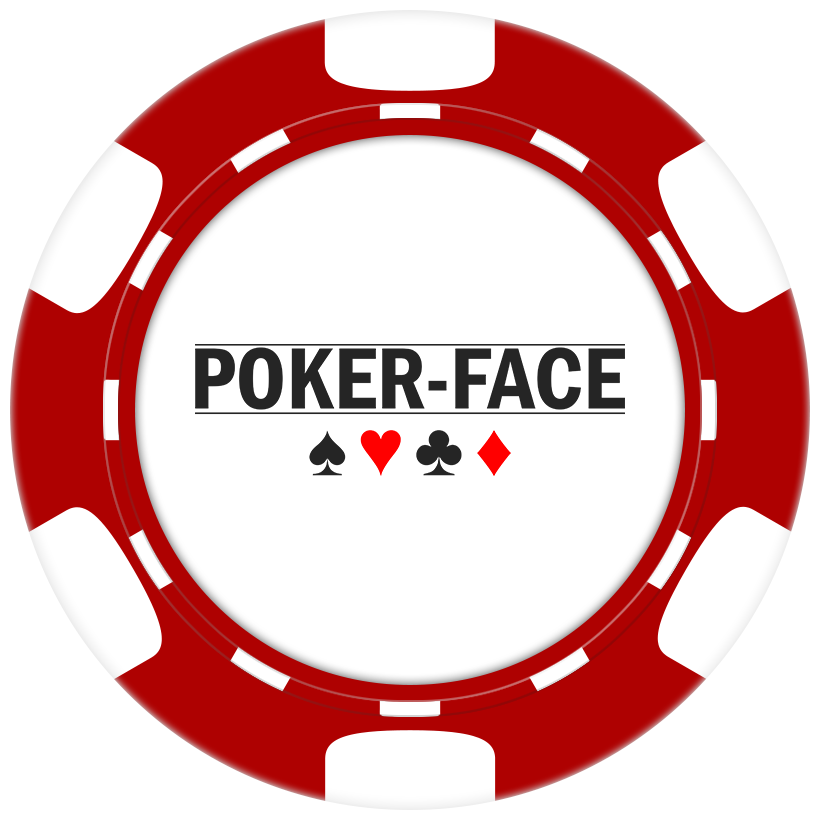
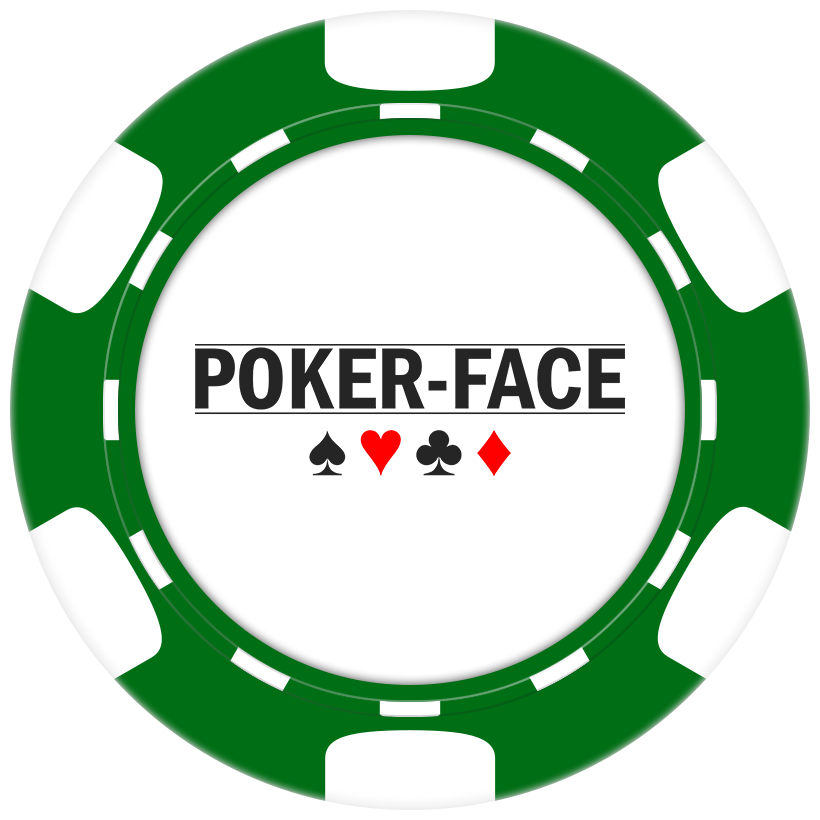
- Font of statistics fixed - Top bar panel fixed when game to main menu - Player turn spending added to PlayerComponent - Appicon is green - handranking.png

Changed region(s): [[0.0, 0.0, 1.0, 0.9756]]

diff --git a/PokerFace/PokerFace/src/ch/hearc/pokerface/gui/gamescreen/player/PlayerComponent.java b/PokerFace/PokerFace/src/ch/hearc/pokerface/gui/gamescreen/player/PlayerComponent.java
@@ -7,10 +7,8 @@ import java.awt.FontFormatException;
 import java.io.File;
 import java.io.IOException;
 
-import javax.imageio.ImageIO;
 import javax.swing.BorderFactory;
 import javax.swing.Box;
-import javax.swing.ImageIcon;
 import javax.swing.JLabel;
 import javax.swing.JPanel;
 import javax.swing.SwingConstants;
@@ -18,6 +16,8 @@ import javax.swing.SwingConstants;
 import ch.hearc.pokerface.gameengine.player.Player;
 import ch.hearc.pokerface.gui.gamescreen.card.CardComponent;
 import ch.hearc.pokerface.gui.gamescreen.card.PlayerCard;
+import ch.hearc.pokerface.gui.tools.ButtonTools;
+import ch.hearc.pokerface.gui.tools.ImageShop;
 
 public class PlayerComponent extends JPanel
 {
@@ -34,16 +34,11 @@ public class PlayerComponent extends JPanel
 	//IO
 	private JLabel				name;
 	private JLabel				money;
+	private JLabel				turnSpend;
 
 	private CardComponent		card1;
 	private CardComponent		card2;
 	private Token				role;
-
-	/*------------------------------*\
-	|*			  Static			*|
-	\*------------------------------*/
-
-	public static final String	FONT	= "resources/Franklin Gothic Demi Cond.ttf";
 
 	/*------------------------------------------------------------------*\
 	|*							Constructeurs							*|
@@ -54,15 +49,9 @@ public class PlayerComponent extends JPanel
 		this.player = player;
 		//money = new JLabel(Integer.toString(player.getBankroll()));
 
-		try
-		{
-			money = new JLabel("$" + Integer.toString(player.getBankroll()), new ImageIcon(ImageIO.read(new File("resources/coin.png"))), SwingConstants.CENTER);
-			name = new JLabel(player.getProfile().getName(), player.getProfile().getAvatar().getIcon(), SwingConstants.CENTER);
-		}
-		catch (IOException e)
-		{
-			e.printStackTrace();
-		}
+		money = new JLabel("$" + Integer.toString(player.getBankroll()), ImageShop.ICON_COIN, SwingConstants.CENTER);
+		turnSpend = new JLabel("" + player.getTurnSpending());
+		name = new JLabel(player.getProfile().getName(), player.getProfile().getAvatar().getIcon(), SwingConstants.CENTER);
 
 		money.setHorizontalTextPosition(SwingConstants.LEFT);
 		name.setHorizontalTextPosition(SwingConstants.LEFT);
@@ -129,16 +118,15 @@ public class PlayerComponent extends JPanel
 
 		role.setToken(player.getRole().toString());
 		money.setText("$" + Integer.toString(player.getBankroll()));
+		turnSpend.setText("$" + player.getTurnSpending());
+		//getParent().update(getParent().getGraphics());
+		turnSpend.repaint();
 		getParent().repaint();
 	}
 
 	/*------------------------------*\
 	|*				Set				*|
 	\*------------------------------*/
-	/*public void setIsHumanPlayer(boolean b)
-	{
-		isHumanPlayer = b;
-	}*/
 
 	public void setAllinShow(boolean b)
 	{
@@ -160,7 +148,13 @@ public class PlayerComponent extends JPanel
 	{
 		Box box = Box.createVerticalBox();
 		box.add(name);
-		box.add(money);
+
+		Box moneyAndBetSpendBox = Box.createHorizontalBox();
+		moneyAndBetSpendBox.add(turnSpend);
+		moneyAndBetSpendBox.add(Box.createHorizontalGlue());
+		moneyAndBetSpendBox.add(money);
+
+		box.add(moneyAndBetSpendBox);
 		Box cardsBox = Box.createHorizontalBox();
 		cardsBox.add(card1);
 		cardsBox.add(card2);
@@ -182,7 +176,7 @@ public class PlayerComponent extends JPanel
 		Font font = name.getFont();
 		try
 		{
-			font = Font.createFont(Font.TRUETYPE_FONT, new File(FONT));
+			font = Font.createFont(Font.TRUETYPE_FONT, new File(ButtonTools.BUTTON_FONT_NAME));
 		}
 		catch (FontFormatException | IOException e)
 		{
@@ -193,9 +187,11 @@ public class PlayerComponent extends JPanel
 
 		name.setFont(font);
 		money.setFont(font);
+		turnSpend.setFont(font);
 
 		name.setForeground(Color.WHITE);
 		money.setForeground(new Color(255, 215, 0));
+		turnSpend.setForeground(new Color(39, 181, 73));
 	}
 
 }

diff --git a/PokerFace/PokerFace/src/ch/hearc/pokerface/gui/gamescreen/table/JPanelGameControl.java b/PokerFace/PokerFace/src/ch/hearc/pokerface/gui/gamescreen/table/JPanelGameControl.java
@@ -1,6 +1,7 @@
 
 package ch.hearc.pokerface.gui.gamescreen.table;
 
+import java.awt.BorderLayout;
 import java.awt.Color;
 import java.awt.Dimension;
 import java.awt.GridLayout;
@@ -16,6 +17,7 @@ import javax.swing.Box;
 import javax.swing.JButton;
 import javax.swing.JComponent;
 import javax.swing.JFormattedTextField;
+import javax.swing.JLabel;
 import javax.swing.JPanel;
 import javax.swing.JScrollPane;
 import javax.swing.JSlider;
@@ -31,6 +33,7 @@ import javax.swing.text.DefaultFormatter;
 import ch.hearc.pokerface.gameengine.gamecore.GameEngine;
 import ch.hearc.pokerface.gameengine.player.Player;
 import ch.hearc.pokerface.gui.tools.ButtonTools;
+import ch.hearc.pokerface.gui.tools.ImageShop;
 
 public class JPanelGameControl extends JPanel
 {
@@ -217,8 +220,12 @@ public class JPanelGameControl extends JPanel
 		moneySlider.setPreferredSize(new Dimension(60, 150));
 		allinButton.setMargin(new Insets(10, 10, 10, 10));
 
-		GridLayout layout = new GridLayout(1, 4);
-		setLayout(layout);
+
+
+		JPanel handRankingPanel = new JPanel();
+		handRankingPanel.setLayout(new BorderLayout());
+		handRankingPanel.setOpaque(false);
+		handRankingPanel.add(new JLabel(ImageShop.ICON_HANDRANKING), BorderLayout.CENTER);
 
 		Box boxButtons = Box.createVerticalBox();
 		boxButtons.add(Box.createVerticalGlue());
@@ -244,9 +251,21 @@ public class JPanelGameControl extends JPanel
 		boxControls.add(boxButtons);
 		boxControls.add(Box.createHorizontalGlue());
 
-		add(boxControls);
-		add(scrollPane);
-		add(statisticsPanel);
+		setLayout(new BorderLayout());
+
+		JPanel panelGridRight = new JPanel();
+		panelGridRight.setOpaque(false);
+
+		GridLayout gridLayout = new GridLayout(1, 3);
+
+		panelGridRight.setLayout(gridLayout);
+		panelGridRight.add(boxControls);
+		panelGridRight.add(scrollPane);
+		panelGridRight.add(statisticsPanel);
+
+		add(handRankingPanel,BorderLayout.WEST);
+		add(panelGridRight,BorderLayout.CENTER);
+
 	}
 
 	private void control()

diff --git a/PokerFace/PokerFace/src/ch/hearc/pokerface/gui/tools/ImageShop.java b/PokerFace/PokerFace/src/ch/hearc/pokerface/gui/tools/ImageShop.java
@@ -39,6 +39,8 @@ public class ImageShop
 	private static final String		NAME_IMAGE_BACKGROUND				= "table/background.png";
 	private static final String		NAME_IMAGE_SPLASH					= "splash.png";
 
+	private static final String		NAME_IMAGE_HANDRANKING				= "handranking.png";
+
 	private static final String		NAME_IMAGE_APPICON					= "appicon.png";
 
 	private static final boolean	IS_BLOQUANT							= true;
@@ -46,7 +48,11 @@ public class ImageShop
 	public static final ImageIcon	ICON_BUTTON_QUIT_GAME				= ImageTools.loadScaledIcon(PATH + NAME_IMAGE_BUTTON_QUIT_GAME, 0.1, IS_BLOQUANT);
 	public static final ImageIcon	ICON_BUTTON_QUIT_APPLICATION		= ImageTools.loadScaledIcon(PATH + NAME_IMAGE_BUTTON_QUIT_APPLICATION, 0.4, IS_BLOQUANT);
 
+	public static final Image		IMAGE_HANDRANKING					= ImageTools.load(PATH + NAME_IMAGE_HANDRANKING, IS_BLOQUANT);
+	public static final ImageIcon	ICON_HANDRANKING					= ImageTools.loadIcon(PATH + NAME_IMAGE_HANDRANKING, IS_BLOQUANT);
+
 	public static final Image		IMAGE_BACKGROUND					= ImageTools.load(PATH + NAME_IMAGE_BACKGROUND, IS_BLOQUANT);
+	public static final ImageIcon	ICON_BACKGROUND						= ImageTools.loadIcon(PATH + NAME_IMAGE_BACKGROUND, IS_BLOQUANT);
 	public static final Image		IMAGE_SPLASH						= ImageTools.load(PATH + NAME_IMAGE_SPLASH, IS_BLOQUANT);
 
 	public static final Image		IMAGE_COIN							= ImageTools.load(PATH + NAME_IMAGE_COIN, IS_BLOQUANT);

diff --git a/PokerFace/PokerFace/src/ch/hearc/pokerface/gui/gamescreen/table/JPanelStatistics.java b/PokerFace/PokerFace/src/ch/hearc/pokerface/gui/gamescreen/table/JPanelStatistics.java
@@ -19,7 +19,7 @@ import javax.swing.JPanel;
 import ch.hearc.pokerface.gameengine.gamecore.state.StateType;
 import ch.hearc.pokerface.gameengine.player.Player;
 import ch.hearc.pokerface.gameengine.statistics.StatisticValue;
-import ch.hearc.pokerface.gui.gamescreen.player.PlayerComponent;
+import ch.hearc.pokerface.gui.tools.ButtonTools;
 
 public class JPanelStatistics extends JPanel
 {
@@ -213,7 +213,7 @@ public class JPanelStatistics extends JPanel
 			Font font = jLabelTitle.getFont();
 			try
 			{
-				font = Font.createFont(Font.TRUETYPE_FONT, new File(PlayerComponent.FONT));
+				font = Font.createFont(Font.TRUETYPE_FONT, new File(ButtonTools.BUTTON_FONT_NAME));
 			}
 			catch (FontFormatException | IOException e)
 			{

diff --git a/PokerFace/PokerFace/src/ch/hearc/pokerface/gui/JFrameMain.java b/PokerFace/PokerFace/src/ch/hearc/pokerface/gui/JFrameMain.java
@@ -48,11 +48,11 @@ public class JFrameMain extends JFrame
 	// CARD MANIPULATIONS
 	public void setCard(String card)
 	{
-
 		if (card == "panelGameBoard")
 		{
 			JOPTableConfiguration tableConfig = new JOPTableConfiguration(this, panelGameBoard);
-			if (!tableConfig.switchToGame()) { return; // Abort the process of switching to gameBoard
+			if (!tableConfig.switchToGame()) {
+				return; // Abort the process of switching to gameBoard
 			}
 
 			setFullscreen(true);
@@ -64,6 +64,7 @@ public class JFrameMain extends JFrame
 	{
 		setFullscreen(false);
 		//TODO appler gameengine.leave();
+		panelMainMenu.refreshTopBar();
 		setCard("panelMainMenu");
 	}
 

diff --git a/PokerFace/PokerFace/src/ch/hearc/pokerface/gui/menuscreens/JPanelMainMenu.java b/PokerFace/PokerFace/src/ch/hearc/pokerface/gui/menuscreens/JPanelMainMenu.java
@@ -65,6 +65,11 @@ public class JPanelMainMenu extends ImagePanel
 		return topBarPanel;
 	}
 
+	public void refreshTopBar()
+	{
+		remove(topBarPanel);
+		add(topBarPanel,BorderLayout.NORTH);
+	}
 	/*------------------------------------------------------------------*\
 	|*							Methodes Private						*|
 	\*------------------------------------------------------------------*/
@@ -149,5 +154,6 @@ public class JPanelMainMenu extends ImagePanel
 		add(panelCenter, BorderLayout.CENTER);
 		add(topBarPanel, BorderLayout.NORTH);
 	}
+
 
 }

diff --git a/PokerFace/PokerFace/src/ch/hearc/pokerface/gui/tools/ButtonTools.java b/PokerFace/PokerFace/src/ch/hearc/pokerface/gui/tools/ButtonTools.java
@@ -20,7 +20,7 @@ public class ButtonTools
 	|*							Attributs Private						*|
 	\*------------------------------------------------------------------*/
 
-	private static final String	BUTTON_FONT_NAME	= "resources/Franklin Gothic Demi Cond.ttf";
+	public static final String	BUTTON_FONT_NAME	= "resources/Franklin Gothic Demi Cond.ttf";
 
 	/*------------------------------------------------------------------*\
 	|*							Constructeurs							*|
